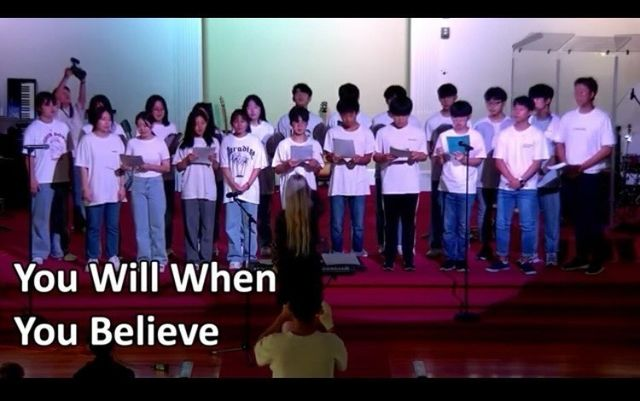
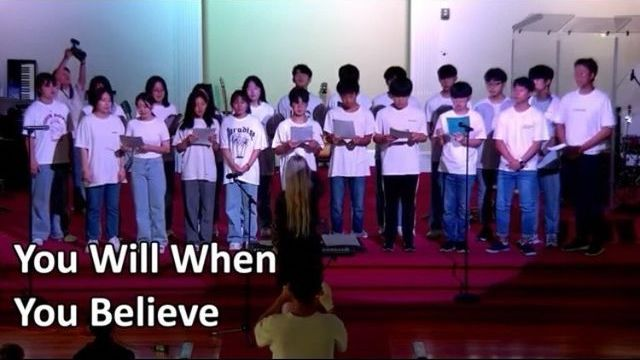
Changes image sizing

diff --git a/client/src/components/Home Page/home.css b/client/src/components/Home Page/home.css
@@ -1,6 +1,7 @@
 #concert-photos {
     display: flex;
-    max-width: 35%;
+    max-width: 400px;
+    min-width: 400px;
     align-items: center;
     margin-left: 25%;
 }
